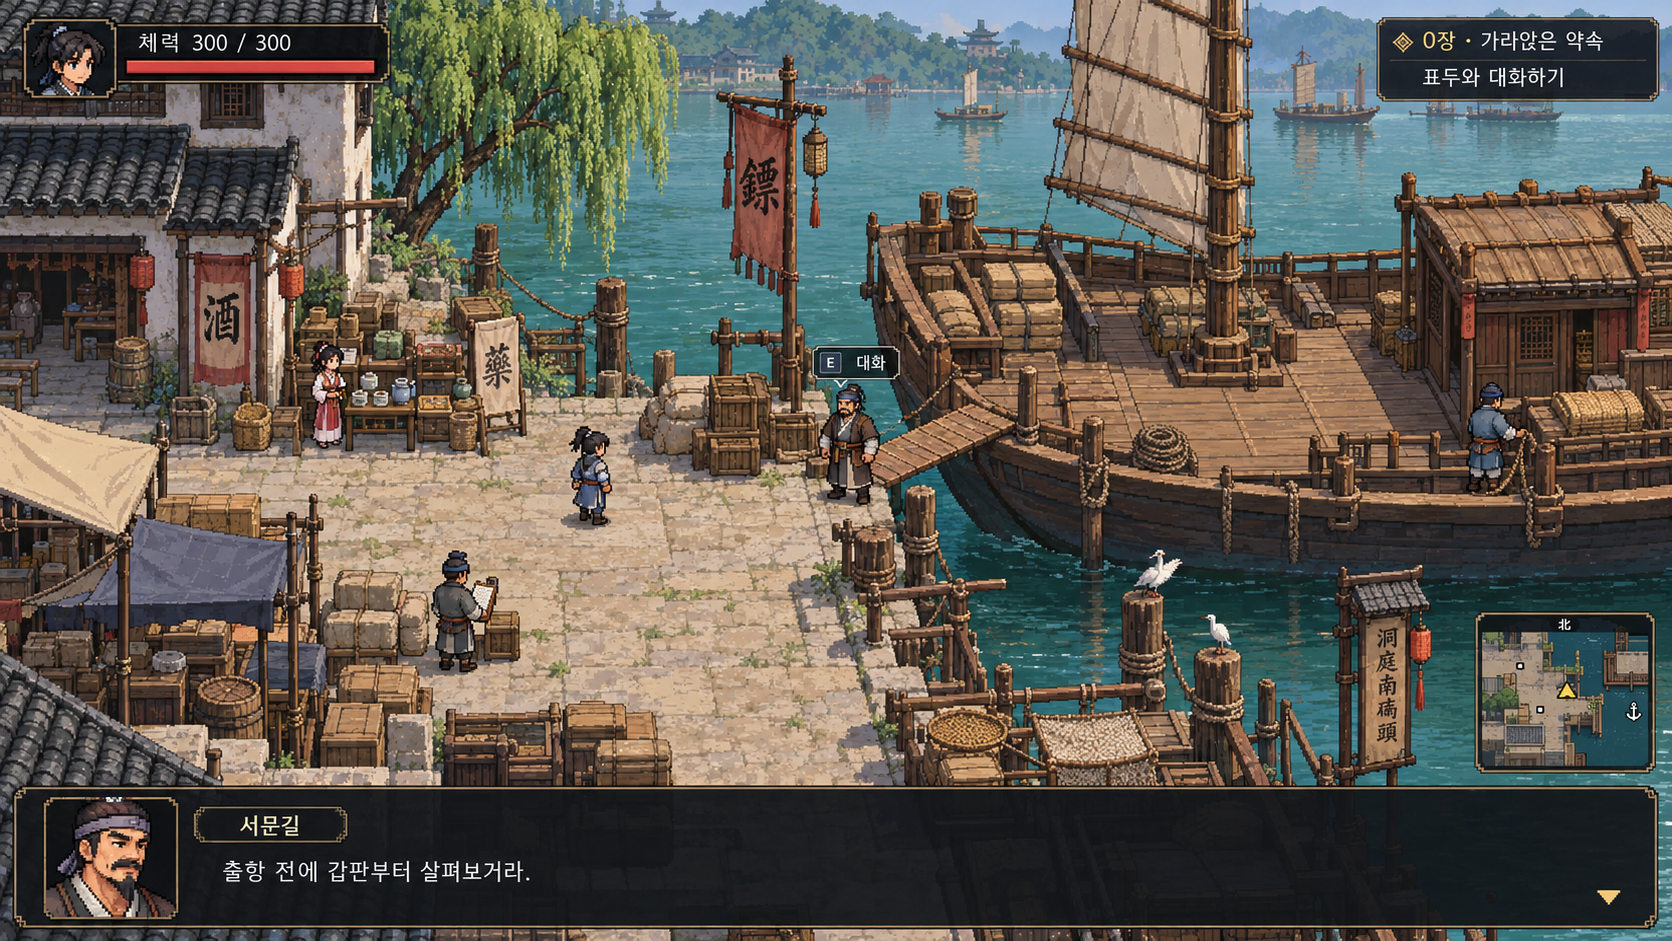
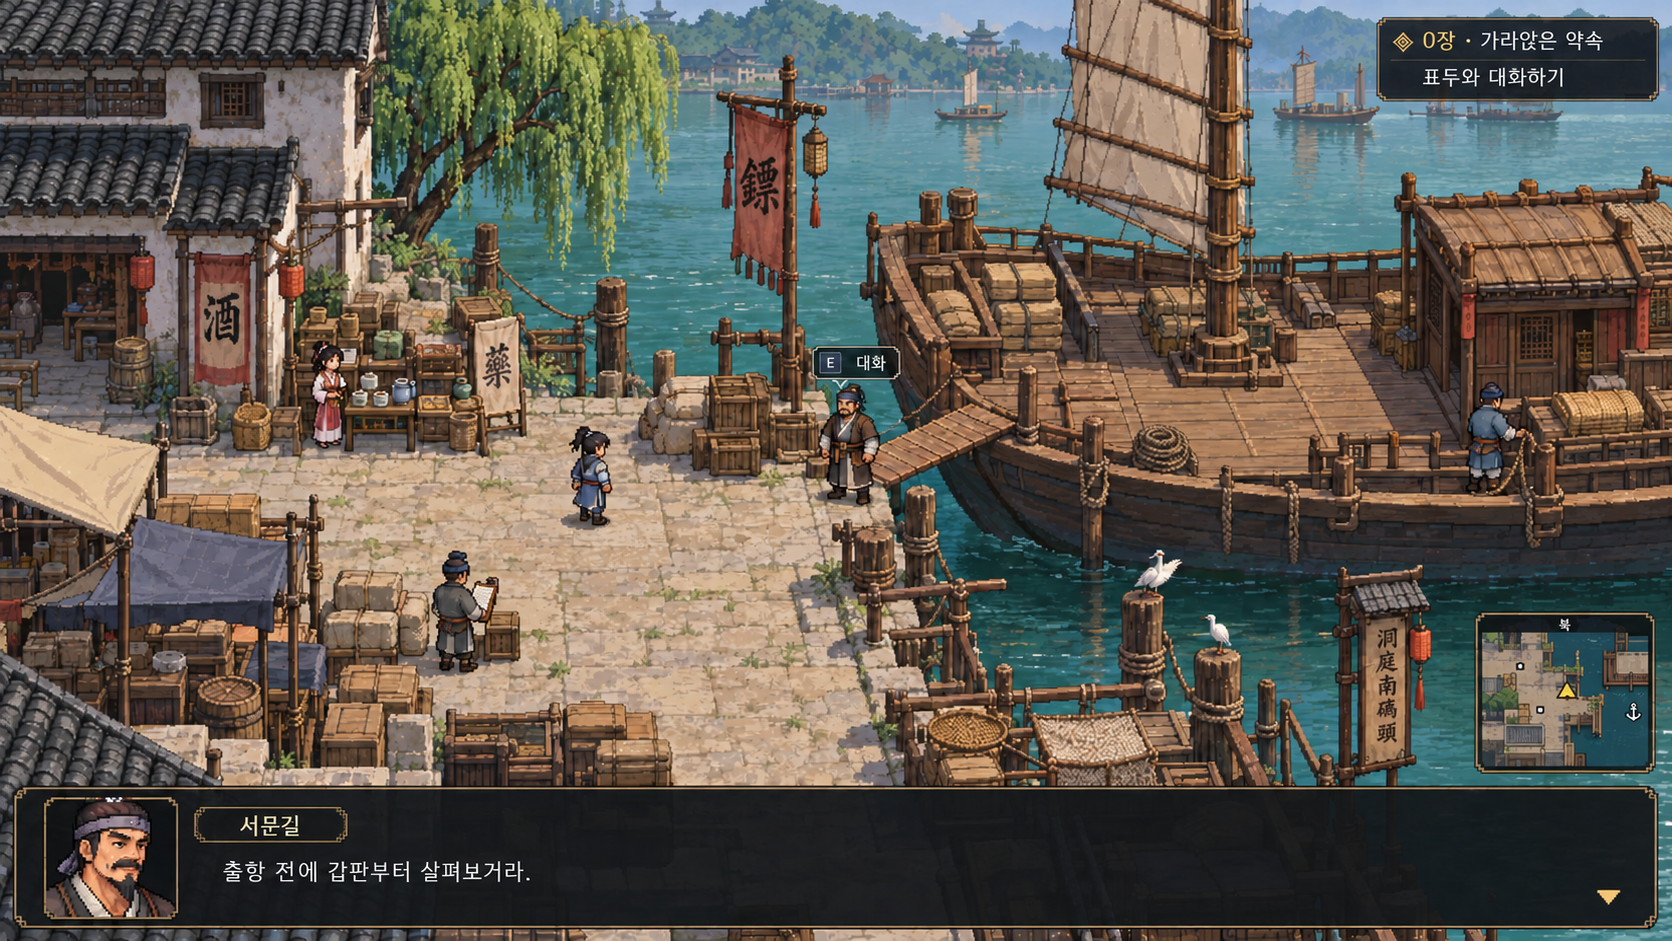
Remove exploration health HUD for fresh-start encounters

diff --git a/prototypes/exploration-screen/README.md b/prototypes/exploration-screen/README.md
@@ -7,9 +7,12 @@
 [원본 PNG 열기](chapter-00-dock.png)
 
 - 중앙: 주인공 이동, NPC와 호송선 상호작용 공간
-- 좌측 상단: 체력 표시 (시작 체력 300)
 - 우측 상단: 현재 목표
 - 우측 하단: 미니맵
 - 하단: 인물 초상화와 대화창
 
 탐험과 별도의 턴제 전투 화면을 사용하는 구상입니다. 인물 외형·배경·문구는 시안이며 최종 게임 자산이 아닙니다.
+
+## 전투 간 컨디션
+
+각 전투는 최상의 컨디션으로 시작하며, 이전 전투의 체력 손실을 다음 전투로 이월하지 않습니다. 탐험 화면에는 체력을 표시하지 않고 전투 화면에서 표시합니다. 내력·상태 이상 등 세부 초기화 항목은 해당 시스템을 설계할 때 정합니다.
